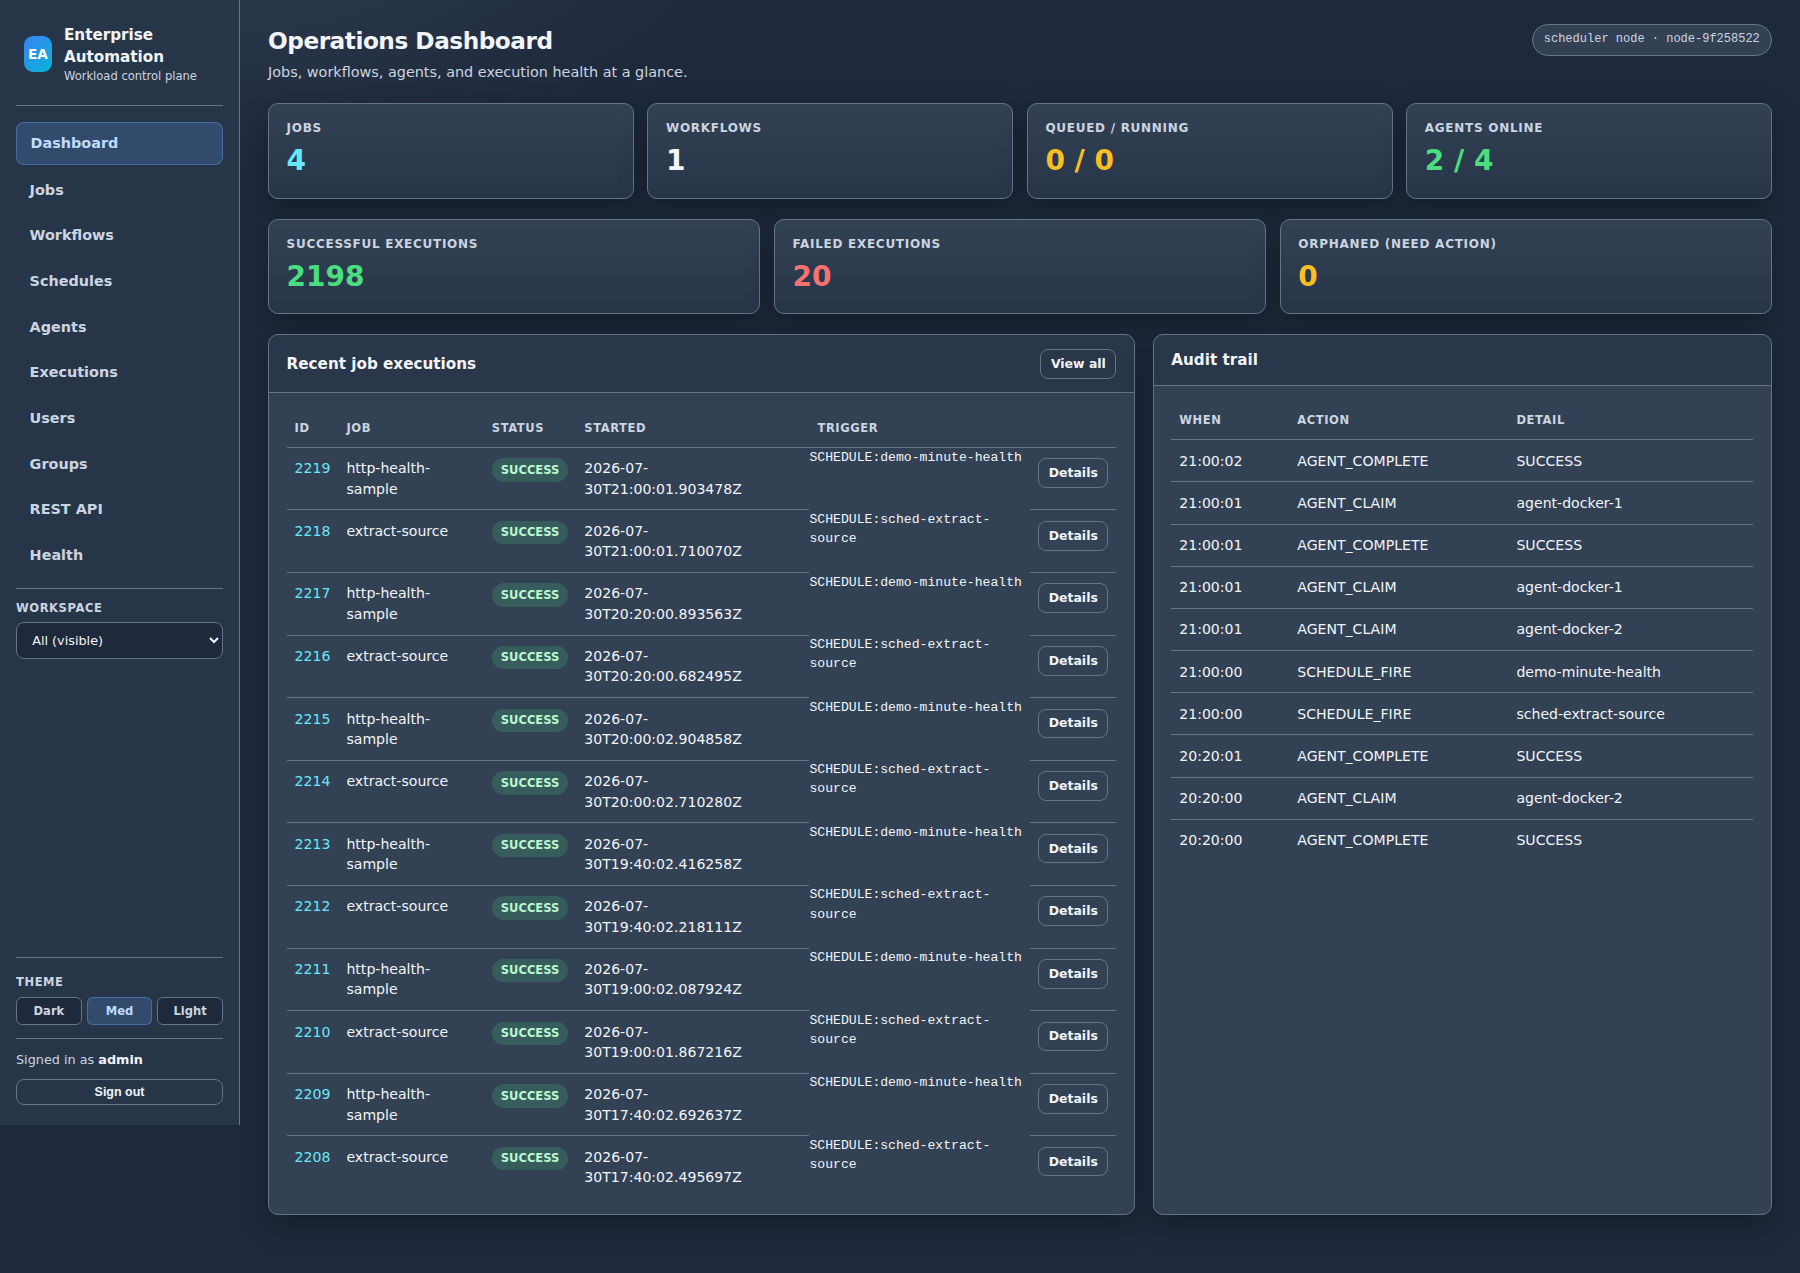
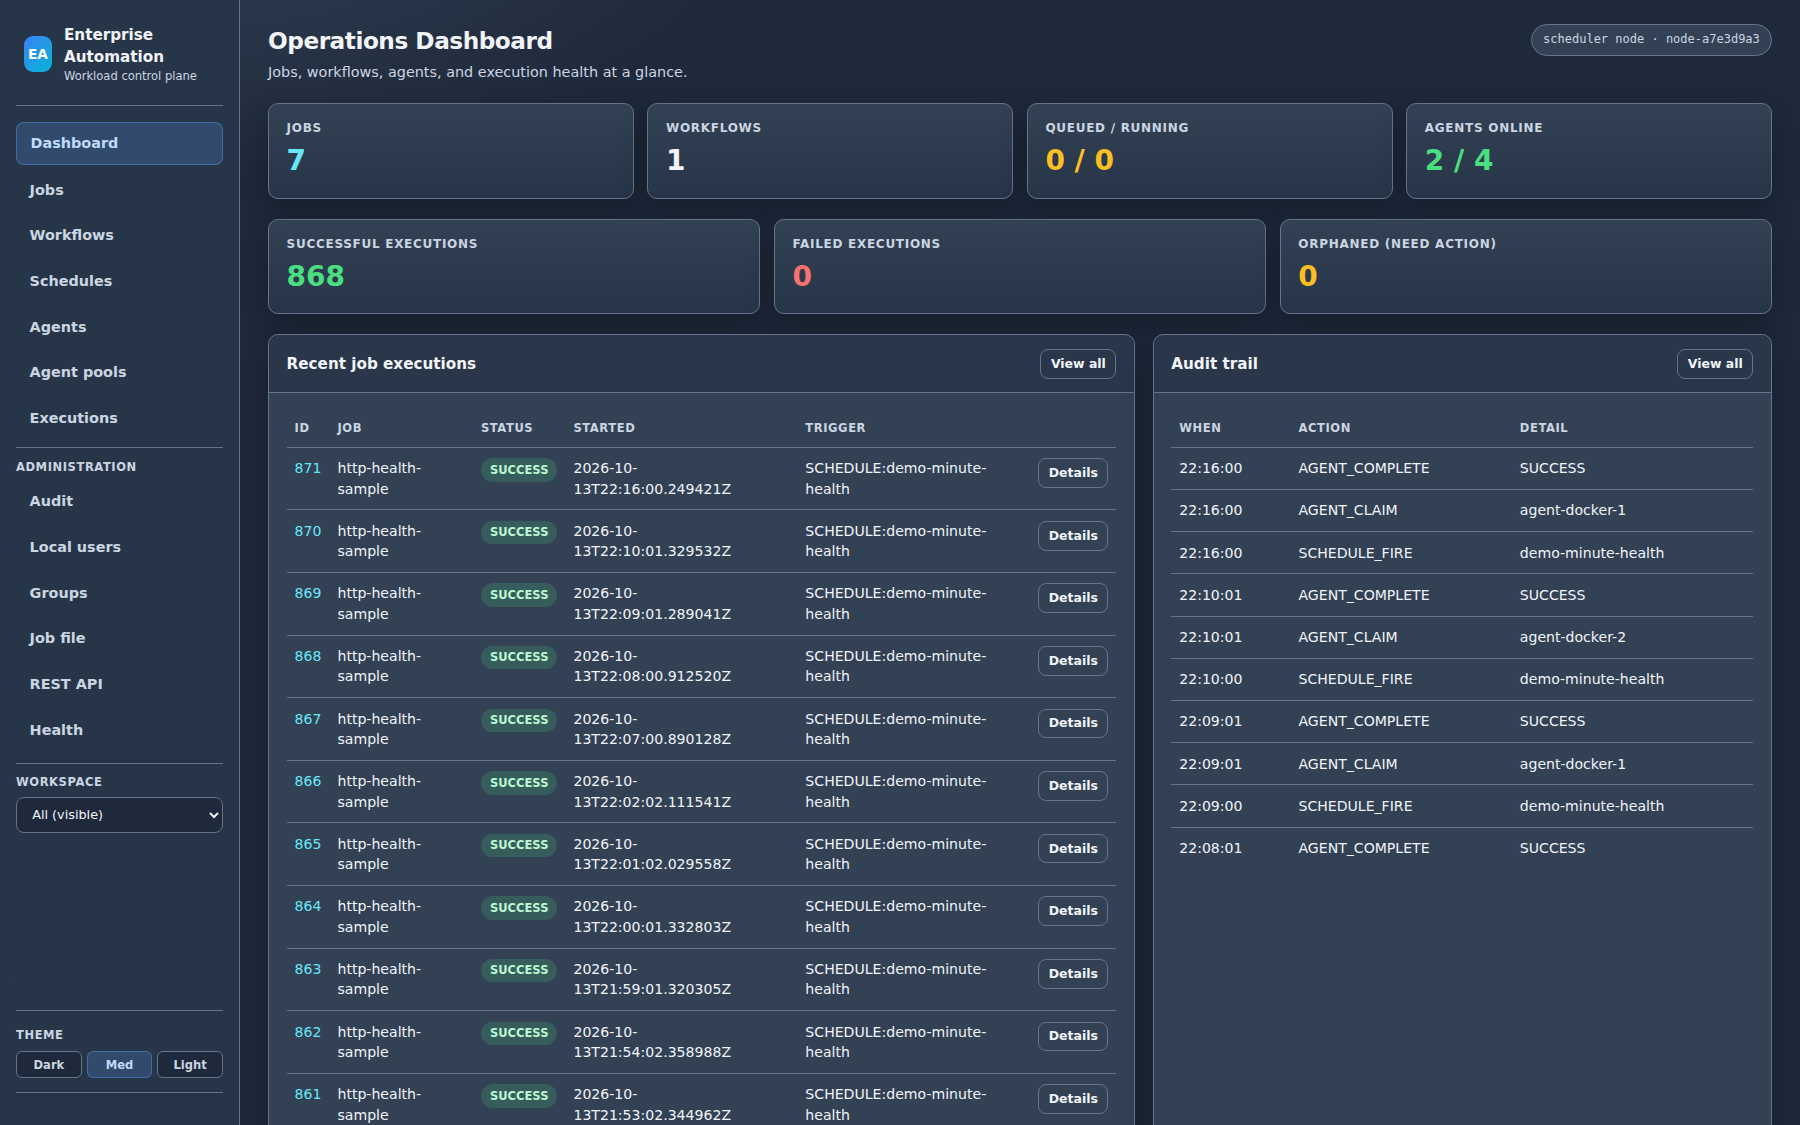
docs(website): refresh the console gallery
The homepage shots still showed the July console, so Agent pools and Job file were missing from the menu. Replace them with the current console and add those two pages.

diff --git a/index.html b/index.html
@@ -16,15 +16,15 @@
   <meta property="og:url" content="https://justrunit.io/" />
   <meta property="og:title" content="Just Run It — Production Workload Automation" />
   <meta property="og:description" content="Production-ready control plane: define work, run it where files live, schedule it, and govern teams. Commercial licenses available." />
-  <meta property="og:image" content="https://justrunit.io/assets/images/10-dashboard-medium.png" />
+  <meta property="og:image" content="https://justrunit.io/assets/images/10-dashboard-medium.png?v=20261013" />
   <meta property="og:image:width" content="1800" />
-  <meta property="og:image:height" content="1273" />
+  <meta property="og:image:height" content="1125" />
   <meta property="og:image:alt" content="Just Run It operations dashboard in medium theme" />
   <meta property="og:site_name" content="Just Run It" />
   <meta name="twitter:card" content="summary_large_image" />
   <meta name="twitter:title" content="Just Run It — Production Workload Automation" />
   <meta name="twitter:description" content="Production-ready jobs, workflows, federated agents, and workspaces. Commercial licensing available." />
-  <meta name="twitter:image" content="https://justrunit.io/assets/images/10-dashboard-medium.png" />
+  <meta name="twitter:image" content="https://justrunit.io/assets/images/10-dashboard-medium.png?v=20261013" />
   <meta name="twitter:image:alt" content="Just Run It operations dashboard" />
   <link rel="stylesheet" href="assets/css/styles.css?v=20260803a" />
   <meta http-equiv="Cache-Control" content="no-cache, no-store, must-revalidate" />
@@ -132,11 +132,11 @@
         </div>
         <figure class="hero-shot">
           <img
-            src="assets/images/10-dashboard-medium.png"
-            srcset="assets/images/full/10-dashboard-medium.png 1800w"
+            src="assets/images/10-dashboard-medium.png?v=20261013"
+            srcset="assets/images/full/10-dashboard-medium.png?v=20261013 1800w"
             sizes="(min-width: 900px) 48vw, 100vw"
             width="1800"
-            height="1273"
+            height="1125"
             alt="Just Run It operations dashboard showing job counts, agents, and recent executions in medium theme"
             decoding="async"
             fetchpriority="high"
@@ -363,7 +363,7 @@
               <li>Orphan detection marks work when an agent goes offline mid-run; operators cancel or requeue</li>
             </ul>
             <figure class="hero-shot" style="margin-top:1rem">
-              <img src="assets/images/06-agents.png" srcset="assets/images/full/06-agents.png 1800w" width="1800" height="1125" alt="Agents management screen with registered workers and capacity" loading="lazy" decoding="async" />
+              <img src="assets/images/06-agents.png?v=20261013" srcset="assets/images/full/06-agents.png?v=20261013 1800w" width="1800" height="1125" alt="Agents page with registered hosts, load, and agent pool membership" loading="lazy" decoding="async" />
             </figure>
           </article>
         </div>
@@ -495,7 +495,7 @@
               controls
               playsinline
               preload="metadata"
-              poster="assets/images/10-dashboard-medium.png"
+              poster="assets/images/10-dashboard-medium.png?v=20261013"
               width="1920"
               height="1080"
             >
@@ -523,7 +523,7 @@
               controls
               playsinline
               preload="metadata"
-              poster="assets/images/10-dashboard-medium.png"
+              poster="assets/images/10-dashboard-medium.png?v=20261013"
               width="1920"
               height="1080"
             >
@@ -700,13 +700,13 @@
         </div>
         <div class="gallery">
           <figure class="shot">
-            <a class="shot-frame" href="assets/images/full/10-dashboard-medium.png" data-full="assets/images/full/10-dashboard-medium.png">
-              <img src="assets/images/10-dashboard-medium.png" srcset="assets/images/full/10-dashboard-medium.png 1800w" width="1800" height="1273" alt="Operations dashboard in medium theme with execution counts and agent status" loading="lazy" decoding="async" />
+            <a class="shot-frame" href="assets/images/full/10-dashboard-medium.png?v=20261013" data-full="assets/images/full/10-dashboard-medium.png?v=20261013">
+              <img src="assets/images/10-dashboard-medium.png?v=20261013" srcset="assets/images/full/10-dashboard-medium.png?v=20261013 1800w" width="1800" height="1125" alt="Operations dashboard in medium theme with execution counts, agent pools, and job file in the menu" loading="lazy" decoding="async" />
             </a>
             <figcaption>
               <div class="cap-text"><strong>Operations dashboard</strong> Counts, agents, recent executions, and audit (medium theme).</div>
               <div class="shot-actions">
-                <a class="btn btn-secondary btn-sm" href="assets/images/full/10-dashboard-medium.png" target="_blank" rel="noopener">Open full size</a>
+                <a class="btn btn-secondary btn-sm" href="assets/images/full/10-dashboard-medium.png?v=20261013" target="_blank" rel="noopener">Open full size</a>
               </div>
             </figcaption>
           </figure>
@@ -720,75 +720,93 @@
             </figcaption>
           </figure>
           <figure class="shot">
-            <a class="shot-frame" href="assets/images/full/03-jobs.png" data-full="assets/images/full/03-jobs.png">
-              <img src="assets/images/03-jobs.png" srcset="assets/images/full/03-jobs.png 1800w" width="1800" height="1125" alt="Jobs catalog with search filters and run actions" loading="lazy" decoding="async" />
+            <a class="shot-frame" href="assets/images/full/03-jobs.png?v=20261013" data-full="assets/images/full/03-jobs.png?v=20261013">
+              <img src="assets/images/03-jobs.png?v=20261013" srcset="assets/images/full/03-jobs.png?v=20261013 1800w" width="1800" height="1125" alt="Jobs catalog with search filters and run actions" loading="lazy" decoding="async" />
             </a>
             <figcaption>
               <div class="cap-text"><strong>Jobs</strong> Catalog with search, type filters, run and schedule actions.</div>
-              <div class="shot-actions"><a class="btn btn-secondary btn-sm" href="assets/images/full/03-jobs.png" target="_blank" rel="noopener">Open full size</a></div>
+              <div class="shot-actions"><a class="btn btn-secondary btn-sm" href="assets/images/full/03-jobs.png?v=20261013" target="_blank" rel="noopener">Open full size</a></div>
             </figcaption>
           </figure>
           <figure class="shot">
-            <a class="shot-frame" href="assets/images/full/12-job-edit.png" data-full="assets/images/full/12-job-edit.png">
-              <img src="assets/images/12-job-edit.png" srcset="assets/images/full/12-job-edit.png 1800w" width="1800" height="1125" alt="Job editor form for type payload preferred agent and timeouts" loading="lazy" decoding="async" />
+            <a class="shot-frame" href="assets/images/full/12-job-edit.png?v=20261013" data-full="assets/images/full/12-job-edit.png?v=20261013">
+              <img src="assets/images/12-job-edit.png?v=20261013" srcset="assets/images/full/12-job-edit.png?v=20261013 1800w" width="1800" height="1125" alt="Job editor showing command payload, preferred agent, and workspace pool" loading="lazy" decoding="async" />
             </a>
             <figcaption>
-              <div class="cap-text"><strong>Job editor</strong> Type, payload, preferred agent, concurrency and timeout.</div>
-              <div class="shot-actions"><a class="btn btn-secondary btn-sm" href="assets/images/full/12-job-edit.png" target="_blank" rel="noopener">Open full size</a></div>
+              <div class="cap-text"><strong>Job editor</strong> Type, payload, preferred agent, and the workspace pool.</div>
+              <div class="shot-actions"><a class="btn btn-secondary btn-sm" href="assets/images/full/12-job-edit.png?v=20261013" target="_blank" rel="noopener">Open full size</a></div>
             </figcaption>
           </figure>
           <figure class="shot">
-            <a class="shot-frame" href="assets/images/full/04-workflows.png" data-full="assets/images/full/04-workflows.png">
-              <img src="assets/images/04-workflows.png" srcset="assets/images/full/04-workflows.png 1800w" width="1800" height="1125" alt="Workflows list for multi-step job orchestration" loading="lazy" decoding="async" />
+            <a class="shot-frame" href="assets/images/full/04-workflows.png?v=20261013" data-full="assets/images/full/04-workflows.png?v=20261013">
+              <img src="assets/images/04-workflows.png?v=20261013" srcset="assets/images/full/04-workflows.png?v=20261013 1800w" width="1800" height="1125" alt="Workflows list for multi-step job orchestration" loading="lazy" decoding="async" />
             </a>
             <figcaption>
               <div class="cap-text"><strong>Workflows</strong> Multi-step orchestration with conditions and restart.</div>
-              <div class="shot-actions"><a class="btn btn-secondary btn-sm" href="assets/images/full/04-workflows.png" target="_blank" rel="noopener">Open full size</a></div>
+              <div class="shot-actions"><a class="btn btn-secondary btn-sm" href="assets/images/full/04-workflows.png?v=20261013" target="_blank" rel="noopener">Open full size</a></div>
             </figcaption>
           </figure>
           <figure class="shot">
-            <a class="shot-frame" href="assets/images/full/05-schedules.png" data-full="assets/images/full/05-schedules.png">
-              <img src="assets/images/05-schedules.png" srcset="assets/images/full/05-schedules.png 1800w" width="1800" height="1125" alt="Cron schedules list for jobs and workflows" loading="lazy" decoding="async" />
+            <a class="shot-frame" href="assets/images/full/05-schedules.png?v=20261013" data-full="assets/images/full/05-schedules.png?v=20261013">
+              <img src="assets/images/05-schedules.png?v=20261013" srcset="assets/images/full/05-schedules.png?v=20261013 1800w" width="1800" height="1125" alt="Cron schedules list for jobs and workflows" loading="lazy" decoding="async" />
             </a>
             <figcaption>
               <div class="cap-text"><strong>Schedules</strong> Cron-driven job or workflow triggers.</div>
-              <div class="shot-actions"><a class="btn btn-secondary btn-sm" href="assets/images/full/05-schedules.png" target="_blank" rel="noopener">Open full size</a></div>
+              <div class="shot-actions"><a class="btn btn-secondary btn-sm" href="assets/images/full/05-schedules.png?v=20261013" target="_blank" rel="noopener">Open full size</a></div>
             </figcaption>
           </figure>
           <figure class="shot">
-            <a class="shot-frame" href="assets/images/full/06-agents.png" data-full="assets/images/full/06-agents.png">
-              <img src="assets/images/06-agents.png" srcset="assets/images/full/06-agents.png 1800w" width="1800" height="1125" alt="Agents page showing registered workers hostnames and capacity" loading="lazy" decoding="async" />
+            <a class="shot-frame" href="assets/images/full/06-agents.png?v=20261013" data-full="assets/images/full/06-agents.png?v=20261013">
+              <img src="assets/images/06-agents.png?v=20261013" srcset="assets/images/full/06-agents.png?v=20261013 1800w" width="1800" height="1125" alt="Agents page showing registered hosts, load, and pool membership" loading="lazy" decoding="async" />
             </a>
             <figcaption>
-              <div class="cap-text"><strong>Agents</strong> Register, monitor, and pin preferred agents for federated hosts.</div>
-              <div class="shot-actions"><a class="btn btn-secondary btn-sm" href="assets/images/full/06-agents.png" target="_blank" rel="noopener">Open full size</a></div>
+              <div class="cap-text"><strong>Agents</strong> Registered hosts, load, and the pool each agent belongs to.</div>
+              <div class="shot-actions"><a class="btn btn-secondary btn-sm" href="assets/images/full/06-agents.png?v=20261013" target="_blank" rel="noopener">Open full size</a></div>
             </figcaption>
           </figure>
           <figure class="shot">
-            <a class="shot-frame" href="assets/images/full/07-executions.png" data-full="assets/images/full/07-executions.png">
-              <img src="assets/images/07-executions.png" srcset="assets/images/full/07-executions.png 1800w" width="1800" height="1716" alt="Execution history with status filters and paging" loading="lazy" decoding="async" />
+            <a class="shot-frame" href="assets/images/full/14-agent-pools.png?v=20261013" data-full="assets/images/full/14-agent-pools.png?v=20261013">
+              <img src="assets/images/14-agent-pools.png?v=20261013" srcset="assets/images/full/14-agent-pools.png?v=20261013 1800w" width="1800" height="1125" alt="Agent pool members for a workspace, with the pool named in the sidebar" loading="lazy" decoding="async" />
+            </a>
+            <figcaption>
+              <div class="cap-text"><strong>Agent pools</strong> A workspace names a pool. Jobs with no preferred agent run on an online member.</div>
+              <div class="shot-actions"><a class="btn btn-secondary btn-sm" href="assets/images/full/14-agent-pools.png?v=20261013" target="_blank" rel="noopener">Open full size</a></div>
+            </figcaption>
+          </figure>
+          <figure class="shot">
+            <a class="shot-frame" href="assets/images/full/07-executions.png?v=20261013" data-full="assets/images/full/07-executions.png?v=20261013">
+              <img src="assets/images/07-executions.png?v=20261013" srcset="assets/images/full/07-executions.png?v=20261013 1800w" width="1800" height="1125" alt="Execution history with status filters and paging" loading="lazy" decoding="async" />
             </a>
             <figcaption>
               <div class="cap-text"><strong>Executions</strong> History, status filters, and drill-down.</div>
-              <div class="shot-actions"><a class="btn btn-secondary btn-sm" href="assets/images/full/07-executions.png" target="_blank" rel="noopener">Open full size</a></div>
+              <div class="shot-actions"><a class="btn btn-secondary btn-sm" href="assets/images/full/07-executions.png?v=20261013" target="_blank" rel="noopener">Open full size</a></div>
             </figcaption>
           </figure>
           <figure class="shot">
-            <a class="shot-frame" href="assets/images/full/13-execution-detail.png" data-full="assets/images/full/13-execution-detail.png">
-              <img src="assets/images/13-execution-detail.png" srcset="assets/images/full/13-execution-detail.png 1800w" width="1800" height="1125" alt="Execution detail page with error reason and log output" loading="lazy" decoding="async" />
+            <a class="shot-frame" href="assets/images/full/13-execution-detail.png?v=20261013" data-full="assets/images/full/13-execution-detail.png?v=20261013">
+              <img src="assets/images/13-execution-detail.png?v=20261013" srcset="assets/images/full/13-execution-detail.png?v=20261013 1800w" width="1800" height="1125" alt="Execution detail page with status, timing, and log output" loading="lazy" decoding="async" />
             </a>
             <figcaption>
-              <div class="cap-text"><strong>Execution detail</strong> Failure reason and log output for fast triage.</div>
-              <div class="shot-actions"><a class="btn btn-secondary btn-sm" href="assets/images/full/13-execution-detail.png" target="_blank" rel="noopener">Open full size</a></div>
+              <div class="cap-text"><strong>Execution detail</strong> Status, timing, and log output.</div>
+              <div class="shot-actions"><a class="btn btn-secondary btn-sm" href="assets/images/full/13-execution-detail.png?v=20261013" target="_blank" rel="noopener">Open full size</a></div>
             </figcaption>
           </figure>
           <figure class="shot">
-            <a class="shot-frame" href="assets/images/full/08-users.png" data-full="assets/images/full/08-users.png">
-              <img src="assets/images/08-users.png" srcset="assets/images/full/08-users.png 1800w" width="1800" height="1231" alt="Admin user management with roles" loading="lazy" decoding="async" />
+            <a class="shot-frame" href="assets/images/full/08-users.png?v=20261013" data-full="assets/images/full/08-users.png?v=20261013">
+              <img src="assets/images/08-users.png?v=20261013" srcset="assets/images/full/08-users.png?v=20261013 1800w" width="1800" height="1125" alt="Local user administration with roles" loading="lazy" decoding="async" />
             </a>
             <figcaption>
-              <div class="cap-text"><strong>Users (admin)</strong> Local account and role administration.</div>
-              <div class="shot-actions"><a class="btn btn-secondary btn-sm" href="assets/images/full/08-users.png" target="_blank" rel="noopener">Open full size</a></div>
+              <div class="cap-text"><strong>Local users</strong> Local accounts and roles. Company SSO users stay in the identity provider.</div>
+              <div class="shot-actions"><a class="btn btn-secondary btn-sm" href="assets/images/full/08-users.png?v=20261013" target="_blank" rel="noopener">Open full size</a></div>
+            </figcaption>
+          </figure>
+          <figure class="shot">
+            <a class="shot-frame" href="assets/images/full/16-job-file.png?v=20261013" data-full="assets/images/full/16-job-file.png?v=20261013">
+              <img src="assets/images/16-job-file.png?v=20261013" srcset="assets/images/full/16-job-file.png?v=20261013 1800w" width="1800" height="1125" alt="Job file page for export, review, and apply of jobs, workflows, and schedules" loading="lazy" decoding="async" />
+            </a>
+            <figcaption>
+              <div class="cap-text"><strong>Job file</strong> Export, review, and apply jobs, workflows, and schedules by workspace and name.</div>
+              <div class="shot-actions"><a class="btn btn-secondary btn-sm" href="assets/images/full/16-job-file.png?v=20261013" target="_blank" rel="noopener">Open full size</a></div>
             </figcaption>
           </figure>
         </div>
